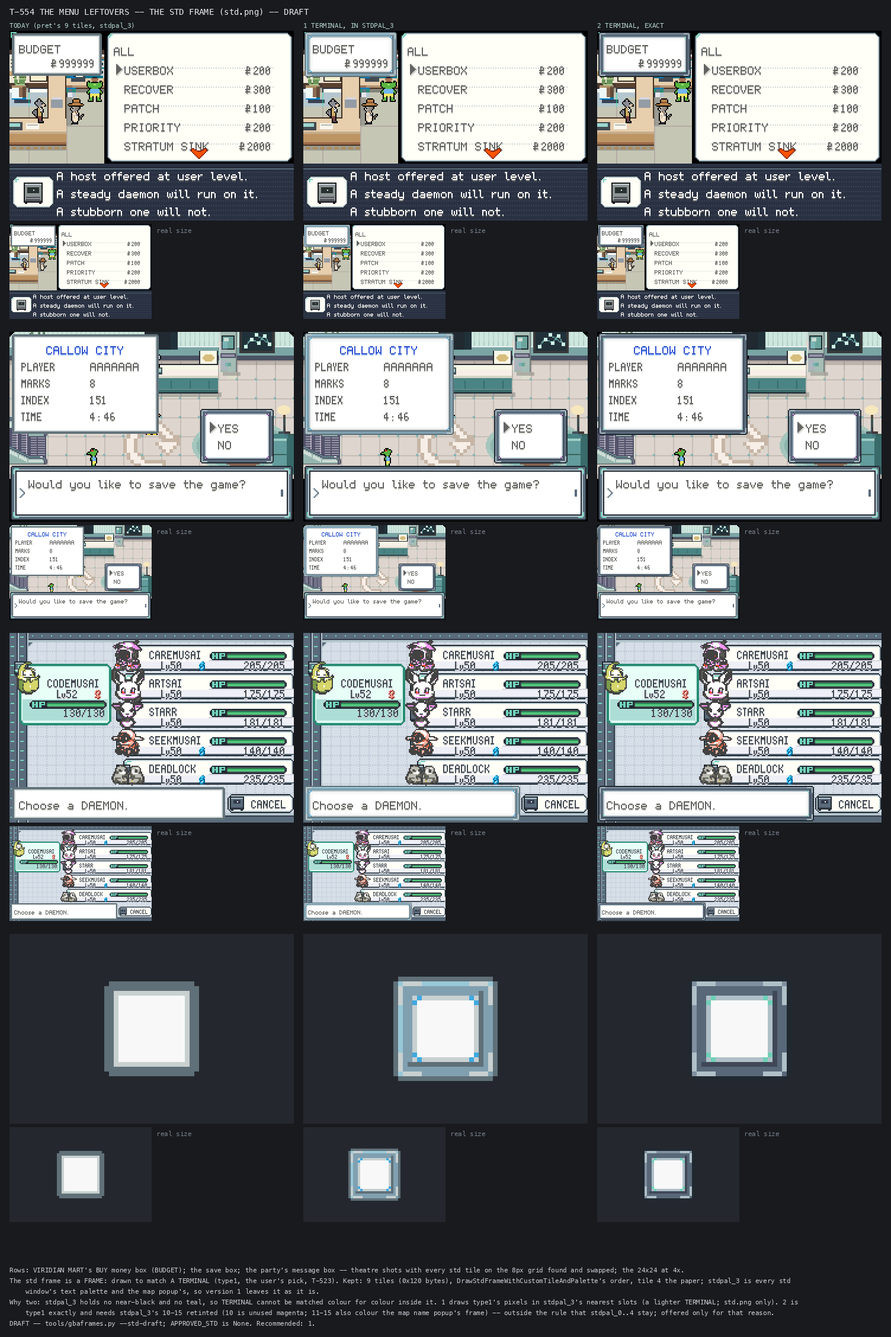
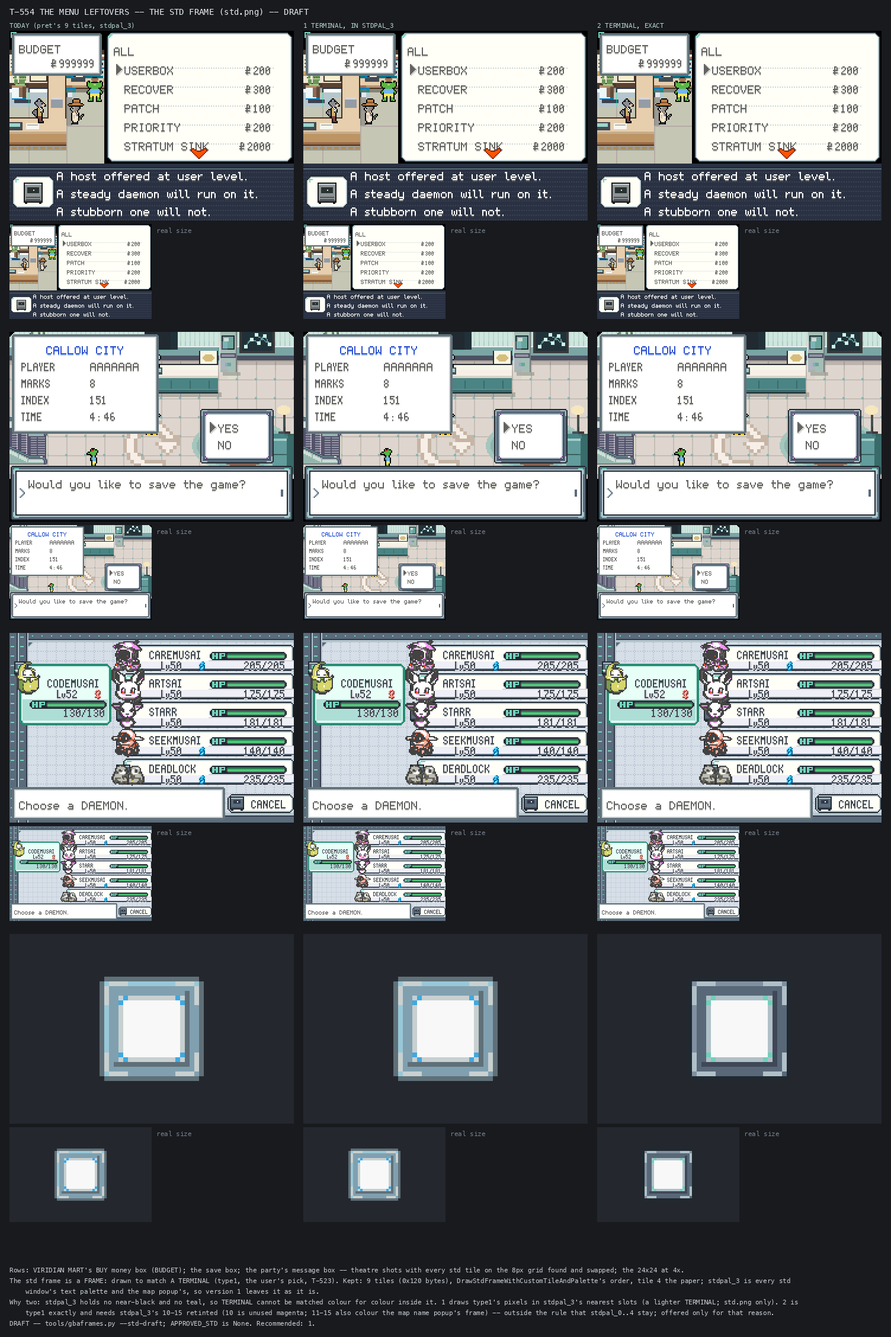
T-554 BUILT (engine 2ab19d87a): the menu leftovers -- std frame 1, every piece A
gbaframes APPROVED_STD = 1 and gbamenus3 APPROVED all A (the user, 2026-11-14); both
reports exit 1 on drift and check_generators runs them. The d-pad's pressed arm keeps the
face with a 4 pip (a whole arm in 4 vanished on the INDEX footer). gbamenus.std_frame_box
draws std.png in stdpal_3, not type1. engine.md's budget from gbabudget --write. Filmed:
tools/routes/t554_menus_built.json, sheets qa 14Nov2026 T554 44-45. TODO struck to BUILT.

diff --git a/tools/gbamenus3.py b/tools/gbamenus3.py
@@ -1,6 +1,6 @@
 #!/usr/bin/env python3
 """T-554: the menu leftovers -- the Nintendo art every menu still shows, after T-523 and T-530 (batch 1 of the
-2026-11-14 re-census). DRAFT: nothing here is in the engine until the user picks.
+2026-11-14 re-census). APPROVED 2026-11-14 (the user: A for every piece; the std frame's version 1 is gbaframes').
 
     python3 tools/gbamenus3.py                      # report: each piece's engine files, its contract, APPROVED
     python3 tools/gbamenus3.py --draft [DIR]        # draw every piece's A/B/C into DIR (gfx/drafts/t554_menus/): the
@@ -73,7 +73,9 @@ NAMES = {
 }
 OFFERED = {p: "ABC" for p in PIECES}
 RECOMMENDED = {p: "A" for p in PIECES}
-APPROVED = {}          # nothing until the user picks (T-554 DRAFT, 2026-11-14)
+#  The user, 2026-11-14 (multiple choice): the bag A TERMINAL DESK, and A for every small piece (TEAL CHEVRON,
+#  SLATE KEY, TEAL CARET, RETURN KEY, KEYCAP, TERMINAL MARKS, SLAB AND RULE). --write --approved --all writes these.
+APPROVED = {p: "A" for p in PIECES}
 
 ap = argparse.ArgumentParser()
 ap.add_argument("--draft", nargs="?", const=DRAFT_DEFAULT)
@@ -693,8 +695,8 @@ def keypad_art(direction):
             body = {"A": 1, "B": 1, "C": 3}[direction]
             for arm, pts in cells.items():
                 for dx, dy in pts:
-                    v = 4 if arm in arms else body
-                    put(g, cx + dx, cy + dy, v)
+                    v = body                      # the pressed arm keeps the face: 4 is only its pip (below),
+                    put(g, cx + dx, cy + dy, v)   # as today -- slot 4 is red in a light window, not in every one
                     if direction == "B":          # arms three wide
                         for o in (-1, 1):
                             if arm in "UD":
@@ -705,6 +707,9 @@ def keypad_art(direction):
                 for o in (-1, 1):
                     for o2 in (-1, 1):
                         put(g, cx + o, cy + o2, body)
+            for arm in arms:                      # the pressed arm's pip, one pixel, where vanilla put it
+                dx, dy = cells[arm][1]
+                put(g, cx + dx, cy + dy, 4)
             # the edge: 2 on every clear pixel right of or below the plus (the cap's shadow, as today)
             cell = [[g[y][x] for x in range(x0, x0 + 8)] for y in range(y4, y4 + 8)]
             for y in range(8):
@@ -1480,7 +1485,7 @@ NOTES = {
 
 
 def report():
-    print("gbamenus3 (T-554 DRAFT): the menu leftovers. APPROVED: %s" % (APPROVED or "none -- nothing is written"))
+    print("gbamenus3 (T-554): the menu leftovers. APPROVED: %s" % (APPROVED or "none -- nothing is written"))
     bad = 0
     for piece in PIECES:
         files = sorted(outputs(piece, "A"))
@@ -1492,7 +1497,34 @@ def report():
                 print("    %s %s: %s" % (d, NAMES[piece][d], "; ".join(errs)))
     sheet, per, ents, ents_pc, rows, miss = bag_build("A")
     print("  bag A: %d of the map's cells take a tile drawn for another cell (majority vote)" % miss)
-    return 1 if bad else 0
+    drift = differs(APPROVED)
+    for rel in drift:
+        print("  DRIFT: engineGba/graphics/%s is not what --write --approved --all makes" % rel)
+    return 1 if bad or drift else 0
+
+
+def differs(picks):
+    """The files a write of `picks` would change, compared decoded (indices and q5 colours), not byte for byte."""
+    import gbafont
+    out = []
+    for piece, d in picks.items():
+        for rel, payload in outputs(piece, d).items():
+            p = os.path.join(G, rel)
+            if not os.path.exists(p):
+                out.append(rel)
+                continue
+            if payload[0] == "png":
+                w, h, bd, plte, px = gbafont.png_load(p)
+                want = payload[1]
+                cur = [[v & 15 if payload[3] == 4 else v for v in r] for r in px]
+                pal_now = [tuple(q5(tuple(plte[i:i + 3]))) for i in range(0, len(plte), 3)]
+                n = 16 if payload[3] == 4 else len(payload[2])
+                if cur != [list(r) for r in want] or pal_now[:n] != [tuple(q5(c)) for c in payload[2]][:n]:
+                    out.append(rel)
+            elif payload[0] == "pal":
+                if [q5(c) for c in M.jasc(p)] != [q5(c) for c in payload[1]]:
+                    out.append(rel)
+    return out
 
 
 def main():

diff --git a/tools/gbamenus.py b/tools/gbamenus.py
@@ -370,12 +370,11 @@ PARTY = [("EEVEE", 34, 102, 102), ("CHARMANDER", 31, 88, 88), ("PIDGEY", 29, 64,
 
 
 def std_frame_box(im, x, y, wt, ht):
-    """The engine's own std frame (type1, the user's chosen TERMINAL since T-523) round a wt x ht tile window, paper
-    filled, as DrawStdFrameWithCustomTileAndPalette lays it."""
-    w, h, bd, pal, px = load_png(os.path.join(G, "text_window/type1.png"))
-    fpal = gbapal(os.path.join(G, "text_window/type1.gbapal")) if os.path.exists(
-        os.path.join(G, "text_window/type1.gbapal")) else pal
-    paper = jasc(os.path.join(G, "text_window/stdpal_0.pal"))[1]
+    """The engine's std frame round a wt x ht tile window, paper filled, as DrawStdFrameWithCustomTileAndPalette lays
+    it: graphics/text_window/std.png in stdpal_3, as LoadStdWindowGfx loads them (T-554: it is NOT type1 -- that is the
+    user frame; this mock drew type1 until 2026-11-14). std.png is read as it is now (T-554 version 1 once written)."""
+    w, h, bd, pal, px = load_png(os.path.join(G, "text_window/std.png"))
+    fpal = jasc(os.path.join(G, "text_window/stdpal_3.pal"))
     W, H = (wt + 2) * 8, (ht + 2) * 8
     g = canvas(W, H, 1)
     for ty in range(ht + 2):
@@ -386,7 +385,6 @@ def std_frame_box(im, x, y, wt, ht):
                 for xx in range(8):
                     g[ty * 8 + yy][tx * 8 + xx] = px[sy * 8 + yy][sx * 8 + xx] & 15
     fp = list(fpal) + [(0, 0, 0)] * 16
-    fp[1] = paper
     b = idx_rgba(g, fp)
     im.paste(b, (x - 8, y - 8), b)
 

diff --git a/tools/gbaframes.py b/tools/gbaframes.py
@@ -72,8 +72,9 @@ A = ap.parse_args() if __name__ == "__main__" else ap.parse_args([])
 
 MAIN_RECOMMENDED = "A"
 APPROVED = "A"                       # the user's pick, 2026-11-06: A TERMINAL, and the whole family with it
-#  T-554 (DRAFT 2026-11-14): the std frame, graphics/text_window/std.png. Nothing approved: --write --std refuses.
-APPROVED_STD = None
+#  T-554: the std frame, graphics/text_window/std.png. The user, 2026-11-14 (multiple choice): version 1, TERMINAL
+#  in stdpal_3 -- std.png only, no palette moves. --write --approved --std 1 writes it.
+APPROVED_STD = "1"
 STD_RECOMMENDED = "1"
 
 
@@ -824,6 +825,12 @@ def main():
         std_draft(A.std_draft)
         if not (A.write or A.draft):
             return 0
+    if A.std and not A.write:                            # report: the engine's std.png against the approved version
+        g, p3, said = std_versions()[A.std]
+        w, h, bd, pal, px = load_png(os.path.join(TW, "std.png"))
+        drift = [[v & 15 for v in r] for r in px] != g or text_pal(3) != p3
+        print("  std %s: %s" % (A.std, "DRIFT: engineGba's std.png is not this version" if drift else "the engine's"))
+        return 1 if drift and APPROVED_STD == A.std else 0
     if A.write and A.std:
         if not A.approved or APPROVED_STD != A.std:
             print("  --write --std %s refuses: APPROVED_STD is %r (the user has not picked the std frame)."

diff --git a/tools/check_generators.py b/tools/check_generators.py
@@ -56,7 +56,8 @@ ARGS = {
     "gbacalendar_ui": [["--approved"]],
     #  T-523: --write refuses without --approved and --main; the user chose A on 2026-11-06, and the write copies
     #  gfx/drafts/t523_frames/A into the engine, so a sandboxed write of it changes nothing when the engine is right.
-    "gbaframes": [["--approved", "--main", "A"]],
+    "gbaframes": [["--approved", "--main", "A"], ["--approved", "--std", "1"]],   # T-554: the std frame, version 1
+    "gbamenus3": [["--approved", "--all"]],                                        # T-554: the menu leftovers, all A
     #  T-524: the same shape; the user chose 2 Readout on 2026-11-06. The write copies gfx/drafts/t524_battle_ui/2 and
     #  splices tiles 66-70 into the elements sheet, so a sandboxed write changes nothing when the engine is right.
     "gbabattleui": [["--approved", "--main", "2"]],

diff --git a/docs/TODO.md b/docs/TODO.md
@@ -516,7 +516,7 @@ was one `git log -S` away.*
 | **T-551** | **THE WALLED GARDEN's WARDEN becomes the GATEKEEPER** (*the user, 2026-11-14, by multiple choice, relayed by the iOS/Site/Tab5 lane: "we called him the warden still, that doesnt fit as much in a walled garden I think..."; GATEKEEPER picked over THE GARDENER, MODERATOR, STEWARD; CURATOR left out, SLATE's museum has one*). His staff's nickname LATENCY stays. Every player-visible WARDEN in the garden's lines (14 in FuchsiaCity, FuchsiaCity_House1, the OFFICE, his house, SafariZone_West), the code's 4, the DEBUG JUMP row ("WARDEN with his TOKEN", named in CLAUDE.md too), vision.md 3.11 and the other mentions; the house's mapsec/sign. GATEKEEPER is 4 letters longer: re-wrap any line past 208px. **With it, the attendant's dream (T-540's census; the user, 2026-11-12, A)**: title BEHIND THE WALL, first line "I dreamt of a garden behind a wall, and a little house deep in it.\pSomeone there kept a way across\nthe water." (attendant_dreams.json, gbadreams --write). All DRAFT. | ***BUILT 2026-11-14 (engine dc780f8c5), DRAFT***: every WARDEN a player reads is GATEKEEPER -- the OFFICE's four lines ("We nicknamed the GATEKEEPER", GATEKEEPER LATENCY x3), his house (the TOKEN handed back, signed in, two thanks, DRIVER04, its explanation), the sign GATEKEEPER'S HOME, HOLT's grandfather, the REQUEST NOTICE (and its Contact:), the TOKEN's description, the quest log's place, the DEBUG JUMP row and its two descriptions. Every line kept to the 2026-11-12 pick; one re-wrapped (`GATEKEEPER: Inside DRIVER04 you'll\nfind DISPLACE.`, 194px); widest message line 199px (the dream), the DEBUG MORE description 225px in the help box vanilla fills to 229. The dream BEHIND THE WALL through attendant_dreams.json and gbadreams --write. Internal names unchanged. gbastr: GATEKEEPER and BEHIND THE WALL in all four ROMs, WARDEN/Warden/warden in none. Four ROMs exit 0; check_lexicon, check_reach, check_agent_vocab pass; check_generators clean but for the environment (ghrelease, reviewpdf); `companion_export.py --check` reports the companion stale on items.json (the TOKEN) and notebook.json (the dream) -- the companion session re-exports. Sheets qa 14Nov2026 T551 3-9; route `tools/routes/t551_gatekeeper.json` (filmed). Not released. | *built, DRAFT* | T-540 |
 | **T-552** | **The ROVER line reads as one flow again: most machine, then a server, then a dog** (*the user, 2026-11-14, by multiple choice: T-452 redrew ROVERCUB as a grey robot dog because the pilot's back did not match its front, and now "the whole rover line doesn't have the same flow"*) CUB is the most mechanical (the pilot's boxy, screen-faced toy); SEER has more form but, being a server, has lost mobility -- **it sits, on a heavy rack-like chassis, vents on its flank, cabled to the ground**, a dog's head starting to form; BYTE is embodied -- **a real white-furred dog with one quiet tell of the line** (a tuft where the cub's antenna was, or a tag that glows). The cub: **a new drawing first, front and back together so they match; failing that, the pilot's front restored (DAEMONS 14a9f0563) with a new back drawn from it.** All three drafted on the sprite server at 512 and reduced to 64x64/16 (T-452's arm C), front, back, icon and follower, for the user to pick; then built. DRAFT. | *Decided 2026-11-14; nothing drawn yet.* | 8.2, 9.4, T-452 |
 | **T-553** | **The MUSAI branch, creature first: each season's vehicle carried in the anatomy** (*the user, 2026-11-14, by multiple choice: "we made them too like the physical inspiration parts ... we should revisit the core parts, the inspiration parts, but ensuring that while having the machine allusion they also look natural"*) Today all six forms are one grey robot with a vehicle bolted under it (T-532, T-534). **Each of the six -- MUSAI, CODEMUSAI, SEEKMUSAI, CAREMUSAI, LENSMUSAI, MASKMUSAI -- gets a natural small-creature body, and the season's vehicle becomes a body part that only alludes to it**: winter long flat ski-like feet, spring glider membranes and a propeller-tuft tail, summer broad float-like webbed feet, autumn sturdy roll-cage ribbing. Core parts first (each form's creature and its type read in one silhouette, the four seasons varying it), then the seasonal allusions. Concepts on the sprite server for the user to pick, then the finals, backs, icons and all 24 followers through T-532's recipe (`genmusaiseasons.py`, `gbafollower.py`, `gbafollowerpal.py`); the INDEX lines (T-534) re-read against the new look. Fable only (the branch's private origin stays in `docs/private/`). DRAFT. | *Decided 2026-11-14; nothing drawn yet.* | T-532, T-534, 9.34 |
-| **T-554** | **The menu leftovers: the Nintendo art every menu still shows** (*the user, 2026-11-14, by multiple choice, picking batch 1 of the 2026-11-14 re-census, docs/private/vanilla-art-census-2026-11-14.md*): the `std` 3x3 window frame (LoadStdWindowGfx: CONTINUE, the party message box, the bag, the shop's money box, the save box, OPTIONS, the PC -- found still pret's 9 tiles, only recoloured, though T-523 redrew type1-10), the bag background (T-209 only recoloured it), the list scroll arrows, SELECT, the bag-swap line, the CLOSE BAG arrow and `?` icon, the keypad glyphs, the markings, two small PC pieces; ~15 files, ~200 tiles. Match A TERMINAL (T-523, the user's frame pick) where a piece is a frame; draft A/B/C where it is not; nothing in the engine until picked. Hazards: `std` stays exactly 9 tiles; stdpal_0..4 are every menu's text; the arrows share the selector outline's palette; trap 38. Sheet qa 14Nov2026 T438 28. | ***DRAFTED 2026-11-14, nothing in the engine (APPROVED empty everywhere)***: *the `std` frame is a frame, so `tools/gbaframes.py --std-draft` draws it to match A TERMINAL in two versions -- **1 TERMINAL, IN STDPAL_3** (type1's pixels in stdpal_3's own slots: a lighter TERMINAL, std.png only; recommended) and **2 TERMINAL, EXACT** (type1 itself, but stdpal_3's 10-15 retinted, against the hazard: stdpal_3 has no near-black or teal, and 11-15 also colour the map name popup) -- `APPROVED_STD = None`. Everything else is new `tools/gbamenus3.py` (`APPROVED = {}`), A/B/C each: bag background (A TERMINAL DESK, B BRASS LEDGER, C READOUT; 55 tiles in place on bg.bin and bg_item_pc.bin), arrows + cursor + selector outline on the one sRedArrowPal (A TEAL CHEVRON, as the PC's, B SLATE WEDGE, C AMBER CARET), SELECT (A SLATE KEY, B TEAL TAG, C BRACKETED; bag_window_pal 13-15 only), the swap line (A TEAL CARET, B NOTCHED RULE, C DASHED), CLOSE BAG and `?` (A RETURN KEY, B OPEN DOOR, C INK SLIP), keypad glyphs (A KEYCAP, B INVERSE, C TICKET; text slots 1-4, rows 4-11), markings + markings2 with OK/CANCEL in SCREEN small (A TERMINAL MARKS, B PUNCH CARD, C SIGILS), PC cursor shadow (misc2 8/15 kept) + item-info frame (A SLAB AND RULE, B DIAMOND AND SLIP, C TARGET AND TRACE). Recommended A throughout. Found: CONTINUE draws the user frame (LoadUserFrameToBg), not std, on a good save -- std only on the save-error screens; std is on the money boxes, save box, party/PC message boxes, coin box, elevator and map popup. Today filmed by tools/routes/t554_menus_today.json; drafts gfx/drafts/t554_menus/; sheets qa 14Nov2026 T554 35-43. Waits on the user's picks; then the picks into APPROVED / APPROVED_STD and `--write --approved`. DRAFT.* | T-523, T-530, T-525, T-438 |
+| **T-554** | **The menu leftovers: the Nintendo art every menu still shows** (*the user, 2026-11-14, by multiple choice, picking batch 1 of the 2026-11-14 re-census, docs/private/vanilla-art-census-2026-11-14.md*): the `std` 3x3 window frame (LoadStdWindowGfx: CONTINUE, the party message box, the bag, the shop's money box, the save box, OPTIONS, the PC -- found still pret's 9 tiles, only recoloured, though T-523 redrew type1-10), the bag background (T-209 only recoloured it), the list scroll arrows, SELECT, the bag-swap line, the CLOSE BAG arrow and `?` icon, the keypad glyphs, the markings, two small PC pieces; ~15 files, ~200 tiles. Match A TERMINAL (T-523, the user's frame pick) where a piece is a frame; draft A/B/C where it is not; nothing in the engine until picked. Hazards: `std` stays exactly 9 tiles; stdpal_0..4 are every menu's text; the arrows share the selector outline's palette; trap 38. Sheet qa 14Nov2026 T438 28. | ***BUILT 2026-11-14 (engine `2ab19d87a`; not yet released) -- the user, by multiple choice: the std frame version 1 (TERMINAL in stdpal_3), the bag A TERMINAL DESK, and A for every small piece***: *`gbaframes.py --write --approved --std 1` (`APPROVED_STD = "1"`) and `gbamenus3.py --write --approved --all` (`APPROVED` all A); a second write of each changes nothing; each report exits 1 on drift, and check_generators runs both (`ARGS`). The d-pad's pressed arm keeps the cap's face with a one-pixel pip in 4, as vanilla did (filming found 4 invisible on the INDEX's dark footer, so a whole arm in 4 vanished). `gbamenus.py`'s `std_frame_box` now draws std.png in stdpal_3 (it drew type1). Four ROMs exit 0; check_lexicon and check_reach clean; gbabudget moved (engine.md). Filmed: tools/routes/t554_menus_built.json, 5/5 stops, beside today (qa 14Nov2026 T554 44-45).* ***DRAFTED 2026-11-14, nothing in the engine (APPROVED empty everywhere)***: *the `std` frame is a frame, so `tools/gbaframes.py --std-draft` draws it to match A TERMINAL in two versions -- **1 TERMINAL, IN STDPAL_3** (type1's pixels in stdpal_3's own slots: a lighter TERMINAL, std.png only; recommended) and **2 TERMINAL, EXACT** (type1 itself, but stdpal_3's 10-15 retinted, against the hazard: stdpal_3 has no near-black or teal, and 11-15 also colour the map name popup) -- `APPROVED_STD = None`. Everything else is new `tools/gbamenus3.py` (`APPROVED = {}`), A/B/C each: bag background (A TERMINAL DESK, B BRASS LEDGER, C READOUT; 55 tiles in place on bg.bin and bg_item_pc.bin), arrows + cursor + selector outline on the one sRedArrowPal (A TEAL CHEVRON, as the PC's, B SLATE WEDGE, C AMBER CARET), SELECT (A SLATE KEY, B TEAL TAG, C BRACKETED; bag_window_pal 13-15 only), the swap line (A TEAL CARET, B NOTCHED RULE, C DASHED), CLOSE BAG and `?` (A RETURN KEY, B OPEN DOOR, C INK SLIP), keypad glyphs (A KEYCAP, B INVERSE, C TICKET; text slots 1-4, rows 4-11), markings + markings2 with OK/CANCEL in SCREEN small (A TERMINAL MARKS, B PUNCH CARD, C SIGILS), PC cursor shadow (misc2 8/15 kept) + item-info frame (A SLAB AND RULE, B DIAMOND AND SLIP, C TARGET AND TRACE). Recommended A throughout. Found: CONTINUE draws the user frame (LoadUserFrameToBg), not std, on a good save -- std only on the save-error screens; std is on the money boxes, save box, party/PC message boxes, coin box, elevator and map popup. Today filmed by tools/routes/t554_menus_today.json; drafts gfx/drafts/t554_menus/; sheets qa 14Nov2026 T554 35-43. Waits on the user's picks; then the picks into APPROVED / APPROVED_STD and `--write --approved`. DRAFT.* | T-523, T-530, T-525, T-438 |
 | ~~**T-555**~~ | **The secrets sweep, run again, and a check so it cannot drift back** (*the Fifth Review, 2026-11-04, finding 1; filed at the user's ask, 2026-11-11*). *CLAUDE.md names four things that never go in public writing; the 2026-09-27 redaction (CHANGELOG, v11.253) moved them to `docs/private/` and rewrote the lines left in TODO, lineage, the changelog and two reviews.* ***Three of the four are readable again in tracked files***: *the WITNESSES' lock and its number stated in `docs/lineage.md` (twice) and derivable from the public bible's 4.6 and its decision log and from one CHANGELOG entry; the parentage in the public bible's 4.24 and three CHANGELOG entries; the dated order in `docs/school.md` §10's notebook table (step labels) and `docs/daemons-review-3.md`'s continuity notes. The engraving is clean.* **The lines are listed nowhere tracked, on purpose** -- *they were given to the user in the review's session, and the check below finds them again.* **The job**: *(1) sweep the five files to `[private: SECRETS §n]` as the bible does, and move the school table's step labels to `docs/private/`; (2) `docs/posts/README.md` lists three secrets, not four -- add the order; (3) **`tools/check_secrets.py`**: reads its patterns from `docs/private/SECRETS.md` (gitignored; the check passes quietly when the folder is absent, as on a fresh clone or in a cloud session), greps every tracked file, and fails on a hit; run it in the push routine beside `check_lexicon.py`.* **Never paste a secret into this row, a commit message or a release note while doing it.** | *open* | docs/daemons-review-5.md; T-506 ***DONE 2026-11-11 (DAEMONS `eb03d4ac`, amended; bible v11.365 re-cut)***: *(1) swept: `docs/lineage.md` (two lines), `docs/vision.md` (4.3's handoff, 4.6's number, 4.24's family line, the renames table), `docs/CHANGELOG.md` (nine lines, three of them older than the first redaction), `docs/school.md` §10's step labels, `docs/daemons-review-2.md` and `-3.md`, `tools/port_hearsay.py`'s docstring -- each to `[private: SECRETS §n]` or to the fact without the relation; (2) `docs/posts/README.md` names all four; (3) `tools/check_secrets.py` reads `docs/private/secrets_patterns.txt` (one regex a line under `## SECRETS §n` headings; gitignored; a starter set was written on the branch's machine and is described, not copied, in the check's docstring), greps every tracked text file, prints file:line and the section label and never the text, passes quietly where the folder is absent; in CLAUDE.md's push routine and its secrets section. Clean on this tree.* **Left for the user**: *write `docs/private/secrets_patterns.txt` on the author's machine (the four sections; §3's words only there), then run the check once -- the cloud session's copy does not travel.* |
 | ~~**T-556**~~ | **DURABLE survives from full HP, so BENCHMARK 1 has the mechanic the bible says it has** (*the Fifth Review, 2026-11-04, finding 2; filed at the user's ask, 2026-11-11*). *5.3 ("His whole line has STURDY") and 5.3b's row 1 say CAIRN needed no mechanic because HEAP, STACK and MONOLITH "cannot be knocked out in one blow, at any level"; 2.11's row defines DURABLE as vanilla STURDY, "negates one-hit knockouts" -- and in Gen 3 that ability blocks only the four one-hit-KO routines (the GUILLOTINE family), nothing else. A level-40 WRITE one-shots HEAP. No CHANGELOG entry ever rebuilt it, so the first lesson in the game ("a record does not go down to one hit", craft rule 5) is a wall with a lesson written on it.* **The job**: *(1) the later generations' rule in the damage calculation -- a daemon with DURABLE at full HP survives any single hit with 1 HP left (the OHKO block stays), with one battle line (DRAFT, for the user) in 1.6's register; (2) 2.11's description rewritten to say what it now does, in the abilities' register (not a verb); (3) re-check the AI harness brief (T-319) and the five 5.3b leaders built against the old reading; (4) 5.3's sentence becomes true -- note it there with the engine commit.* *A design question to carry, not block on: whether the three DURABLE lines beyond CAIRN's (check `tools/`'s ability census) want it too; vanilla gives it to many ROCK-slot species, so the answer is probably yes and the balance is a playtest's.* | *open* | docs/daemons-review-5.md; 5.3, 2.11 ***BUILT 2026-11-11 (engine `2812837c` on branch `claude/wonderful-davinci-1ba30q`; bible v11.365, DAEMONS this commit)***: *`TryDurableHold()` after the ENDURE / FAILSAFE block in all three damage adjusters -- at full HP, no SUBSTITUTE, a hit for its HP or more leaves 1 HP, sets FOE_ENDURED and a per-turn `durableHeld` bit, records the ability for the AI; `Cmd_resultmessage` prints the new line on both of its ENDURE paths; the OHKO block in `Cmd_tryKO` stays. The line, DRAFT: "{name} did not go down / to one hit!" (163px / 61px). The description, DRAFT, 30 of 32: "No one hit takes it from full." 2.11, 5.3 and 5.3b amended. All four ROMs exit 0 and gbastr finds the line in each; check_lexicon, check_agent_vocab and check_todo clean.* **Left**: *the harness brief says the old rule in one line (engineAi `server/prompts/game.txt:1266`, read-only from this session); no theatre film of the line and no release cut here (no mGBA, no release tooling run); the DURABLE lines beyond CAIRN's (16 species carry it) get the rule too, which is the balance question the row named, for a playtest.* |
 | ~~**T-557**~~ | **The ending's two gates: point at the seventh chamber, and decide the sixty** (*the Fifth Review, 2026-11-04, finding 3; filed at the user's ask, 2026-11-11*). **(1) The pointer.** *DOLDRUM CAVE has two gates (T-251, T-252; 0.7): PERMISSION, and PERCEPTION, which needs the FIRST understanding, arrived at by reading TANOBY's seventh chamber. 4.34's order of the ending does not name TANOBY at all, 8.2a names it only as content, and the one in-game pointer is BASIN's post-win line (0.7's own note: the FIRST had "no sign, no dream, no line" before T-389). A player who never revisits DOLDRUM's gym after the REVIEW BOARD, and never solves a vanilla optional boulder puzzle, meets a REMNANT and wakes in bed with no idea why; T-347's three-heals dream is the only net.* **The job**: *one pointer on the critical path, in a register the game already owns -- the leading candidate is the REMNANT's own moment at the cave door (S.T.A.R.R.'s terminal register, as "TAKE ME TO THE SCHOLAR" already does for step 4: a place and nothing about why), or the aide who hands over the GLOBAL INDEX; the words DRAFT and the user's; and TANOBY added to 4.34's order as step 2a so the bible's ending has both gates.* **(2) The sixty.** *The GLOBAL INDEX, which opens Act 2, needs `FLAG_SYS_GAME_CLEAR`, **sixty daemons owned** and a visit to ONE ISLAND (9.17: "the last two are the ones nobody remembers"). It is vanilla's condition, recorded as a debug finding and kept because "both preconditions are real" -- never decided as design. The finale of a game whose argument is that the INDEX cannot hold what matters is gated on a collection count.* **The user's call, by multiple choice when a session is ready to ask**: *keep it and say so in 9.17 as a choice; lower it; replace it with something the story already hands over (the SLATE MARK is "a record that reads the same twice"; the eighth MARK; the NOTEBOOK's first PROSPECTUS); or keep the count but have the aide say the number, so the gate is at least visible. Whatever is chosen is written into 9.17 and 4.34, and the harness brief (T-319) learns it.* | *open; (2) wants the user* | docs/daemons-review-5.md; T-251, T-252, 9.17 ***DONE 2026-11-11 (engine `38982aab` on branch `claude/wonderful-davinci-1ba30q`; bible v11.365)***: *(1) the dream the unread cave wakes you from (BattleScript_RemnantDream) ends on one new line in S.T.A.R.R.'s register, DRAFT: "SEVEN ISLAND. SEVEN CHAMBERS. / THE SEVENTH HAS NOT BEEN READ." (172px / 179px); TANOBY is step 2a in 4.34's order and the pointer paragraph names it. (2) **The user, by multiple choice: drop the sixty.** Reading the scripts found it already dead in play since T-27 -- the aide gives the GLOBAL INDEX on FLAG_CRYSTAL_GONE alone, with no count and no island -- so the bible's 9.17, the Fourth Review's "ten gates" and the Fifth's finding 3 were stale on this point; the dead check is removed from the one path that had it, 9.17 corrected, the Fifth Review annotated. Four ROMs exit 0, gbastr finds the line in each; check_reach, check_lexicon, check_todo clean.* **Left**: *the harness brief (engineAi, read-only here) to learn the pointer; no theatre film, no release cut here.* |

diff --git a/docs/engine.md b/docs/engine.md
@@ -27,9 +27,9 @@ python3 tools/gbabudget.py --write   # and update the tables below
 |---|---|---|---|---|
 | **EWRAM** | 256.0 KB | 255.3 KB | **668 B** | 99.75% |
 | **IWRAM** | 32.0 KB | 30.0 KB | **2.0 KB** | 93.74% |
-| **ROM** | 16.0 MB | 11.2 MB | **4.8 MB** | 70.21% |
+| **ROM** | 16.0 MB | 11.2 MB | **4.8 MB** | 70.22% |
 
-***The ROM's row is the 16 MB file and what is in it, not the highest address used.*** *`gfx_data` is pinned where retail keeps it, so the 4.8 MB free is in two places: what comes before it grows into a 3.9 MB gap below it, and it grows into the 874.4 KB after it. The GBA addresses 32 MB, so the file itself could grow.*
+***The ROM's row is the 16 MB file and what is in it, not the highest address used.*** *`gfx_data` is pinned where retail keeps it, so the 4.8 MB free is in two places: what comes before it grows into a 3.9 MB gap below it, and it grows into the 873.9 KB after it. The GBA addresses 32 MB, so the file itself could grow.*
 
 *The debug ROM costs a further **176 bytes** of EWRAM and **48** of IWRAM.*
 
@@ -60,9 +60,9 @@ The biggest tenants after it:
 |---|---|---|---|
 | `.rodata` | 4.8 MB | 6.6 MB | 1.8 MB |
 | `gfx_data` | 1.7 MB | 1.8 MB | 97.7 KB |
-| `.text` | 1.4 MB | 1.5 MB | 104.1 KB |
+| `.text` | 1.4 MB | 1.5 MB | 105.1 KB |
 | `script_data` | 496.9 KB | 546.1 KB | 49.2 KB |
-| `extra` | 0 B | 369.1 KB | 369.1 KB |
+| `extra` | 0 B | 369.6 KB | 369.6 KB |
 | `song_data` | 282.1 KB | 253.2 KB | -28.9 KB |
 | `multiboot_data` | 188.8 KB | 188.8 KB | 0 B |
 | `lib_text` | 56.5 KB | 56.5 KB | 0 B |

diff --git a/qa/screenshots/2026-11-14/README.md b/qa/screenshots/2026-11-14/README.md
@@ -234,3 +234,15 @@ T-554 DRAFT: the markings today (theatre or the engine's own render) beside its 
 T-554 DRAFT: the pcparts today (theatre or the engine's own render) beside its drafts at 2x and real size; nothing in the engine
 
 ![14Nov2026 - T554 - menu leftovers pcparts drafts - 43](14Nov2026%20-%20T554%20-%20menu%20leftovers%20pcparts%20drafts%20-%2043.png)
+
+### 14Nov2026 - T554 - built bag today and after - 44
+
+T-554 BUILT: the bag today beside the build (std 1, all A), filmed in the theatre on the debug ROM
+
+![14Nov2026 - T554 - built bag today and after - 44](14Nov2026%20-%20T554%20-%20built%20bag%20today%20and%20after%20-%2044.png)
+
+### 14Nov2026 - T554 - built windows today and after - 45
+
+T-554 BUILT: the MART money and quantity boxes, the save box, the party message box and the INDEX footer, today beside the build, filmed
+
+![14Nov2026 - T554 - built windows today and after - 45](14Nov2026%20-%20T554%20-%20built%20windows%20today%20and%20after%20-%2045.png)
